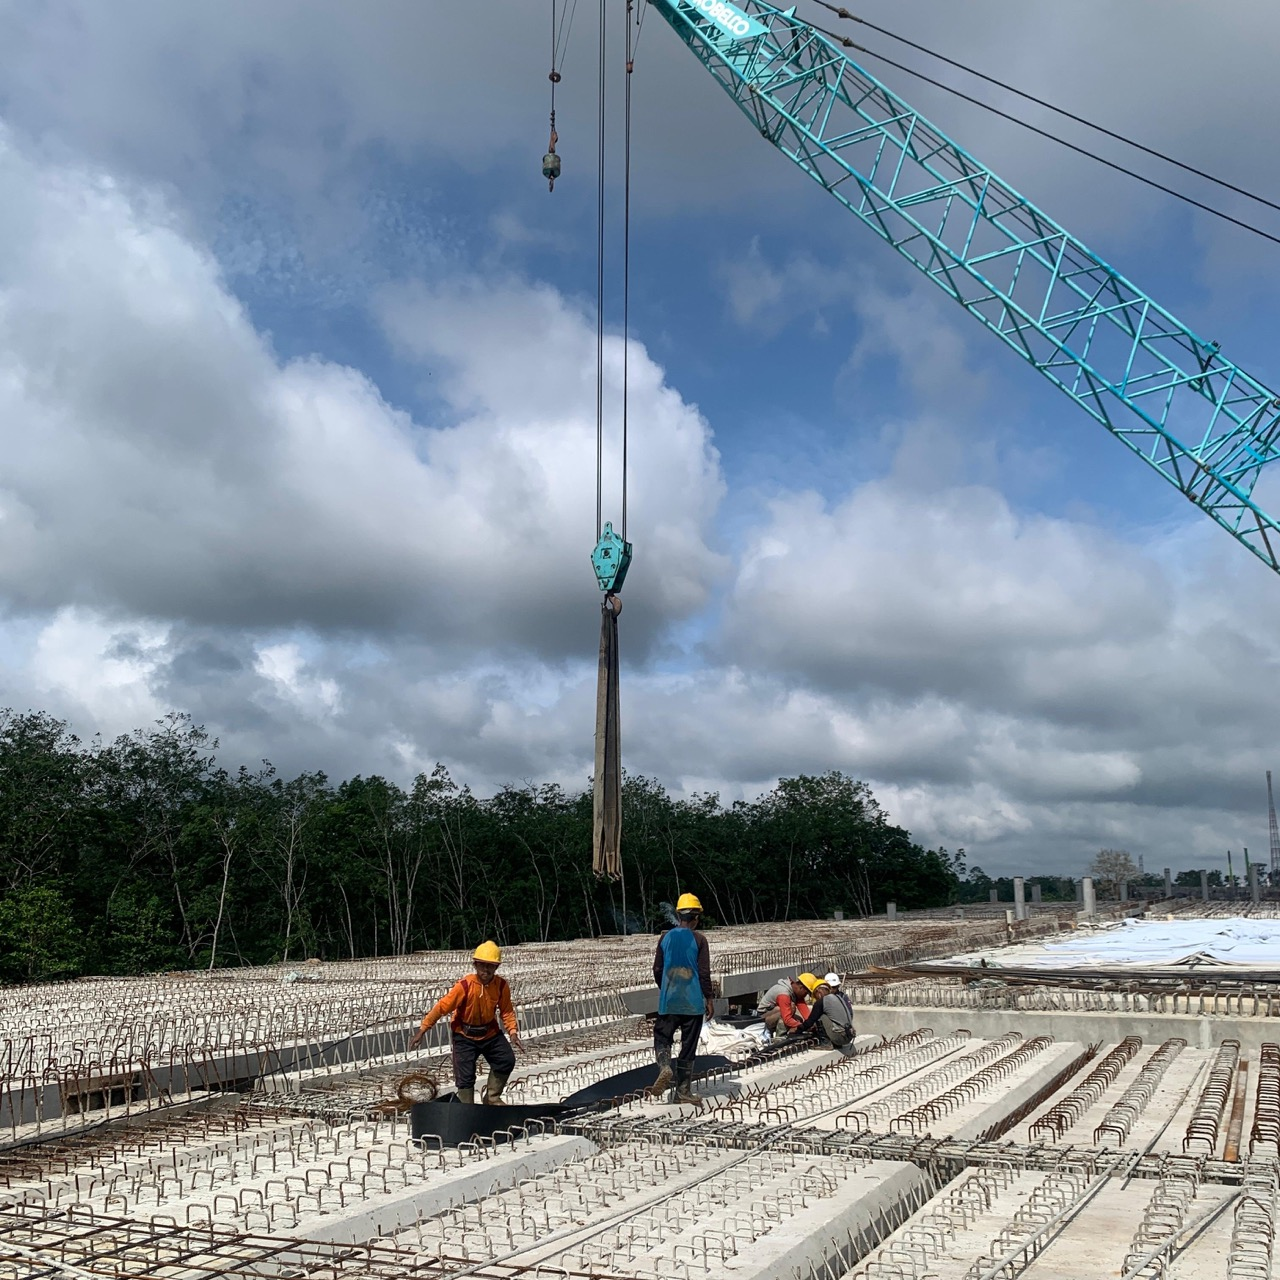
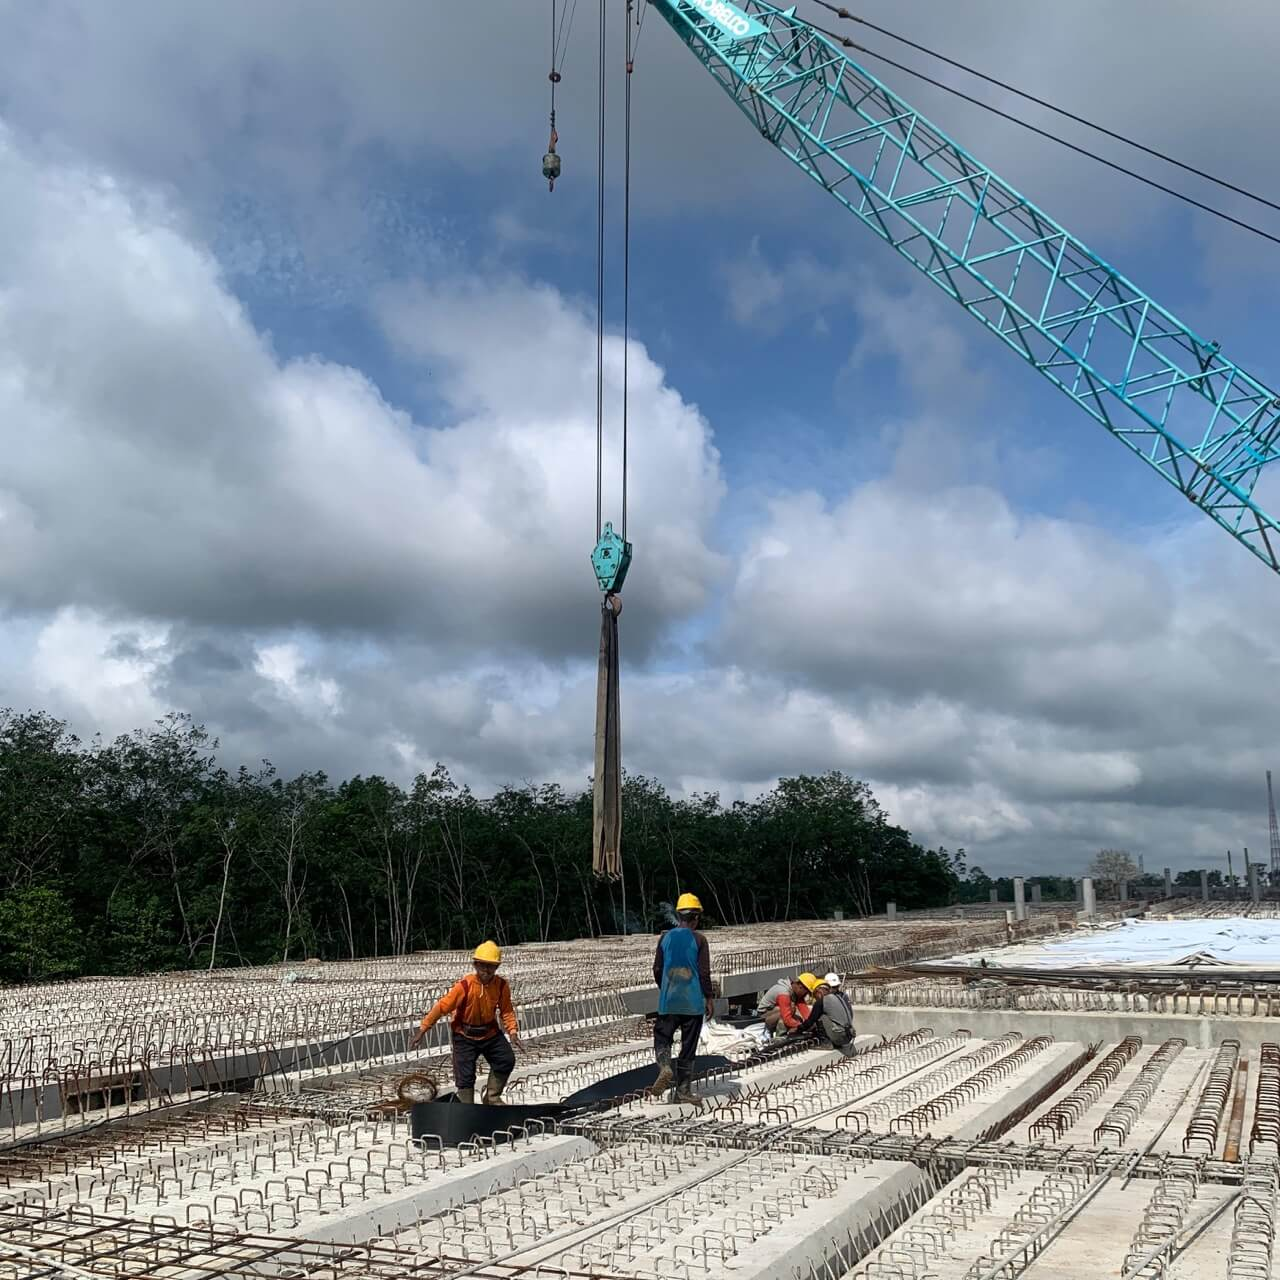
Rev

diff --git a/src/components/public/Hero.tsx b/src/components/public/Hero.tsx
@@ -9,38 +9,48 @@ export default function Hero() {
         <section className="relative min-h-screen flex items-center overflow-hidden bg-[#0B0C35] pt-32 pb-16">
             <div className="absolute inset-0 z-0 flex">
 
-                {/* 1. GAMBAR KIRI (KONSTRUKSI) - HANYA MUNCUL DI DESKTOP */}
-                <div
-                    className="hidden md:block w-1/3 h-full bg-cover bg-center border-r border-white/10"
-                    style={{ backgroundImage: "url('/images/hero-konstruksi.jpg')" }}
-                />
+                {/* 1. GAMBAR KIRI (KONSTRUKSI) */}
+                <div className="relative hidden md:block w-1/3 h-full border-r border-white/10">
+                    <Image
+                        src="/images/hero-konstruksi.jpg"
+                        alt="Layanan Konstruksi"
+                        fill
+                        className="object-cover"
+                        sizes="33vw"
+                    // Tanpa atribut priority, gambar ini otomatis di-lazy-load.
+                    // Karena dibungkus div 'hidden', browser mobile TIDAK akan mengunduhnya.
+                    />
+                </div>
 
-                {/* 2. GAMBAR TENGAH (CORING) - SANG RAJA (MUNCUL DI MOBILE & DESKTOP) */}
-                {/* Tetap gunakan Next Image di sini dengan priority agar skor Mobile 100 */}
+                {/* 2. GAMBAR TENGAH (CORING) - SANG RAJA */}
                 <div className="relative w-full md:w-1/3 h-full shrink-0">
                     <Image
                         src="/images/hero-coring.jpg"
-                        alt="Jasa Coring"
+                        alt="Jasa Coring Beton"
                         fill
                         className="object-cover"
-                        priority
+                        priority // Wajib untuk membidik LCP yang cepat di layar mobile
                         sizes="(max-width: 768px) 100vw, 33vw"
                     />
                 </div>
 
-                {/* 3. GAMBAR KANAN (GENSET) - HANYA MUNCUL DI DESKTOP */}
-                <div
-                    className="hidden md:block w-1/3 h-full bg-cover bg-center border-l border-white/10"
-                    style={{ backgroundImage: "url('/images/hero-genset.jpg')" }}
-                />
+                {/* 3. GAMBAR KANAN (GENSET) */}
+                <div className="relative hidden md:block w-1/3 h-full border-l border-white/10">
+                    <Image
+                        src="/images/hero-genset.jpg"
+                        alt="Layanan Genset"
+                        fill
+                        className="object-cover"
+                        sizes="33vw"
+                    />
+                </div>
 
             </div>
 
-            {/* Overlay Gradient Tetap Sama */}
+            {/* Overlay Gradient */}
             <div className="absolute inset-0 z-10 bg-[#0B0C35]/20"></div>
-            <div className="absolute inset-0 z-10 "></div>
 
-            {/* Konten */}
+            {/* Konten Utama */}
             <div className="container mx-auto px-6 relative z-20 pt-10 md:pt-20 flex flex-col justify-between min-h-[calc(100vh-8rem)]">
                 <div className="max-w-4xl mx-auto mb-16 flex flex-col items-center text-center">
                     <h1 className="text-5xl md:text-7xl font-black text-white leading-[1.1] mb-6 tracking-tighter drop-shadow-lg">
